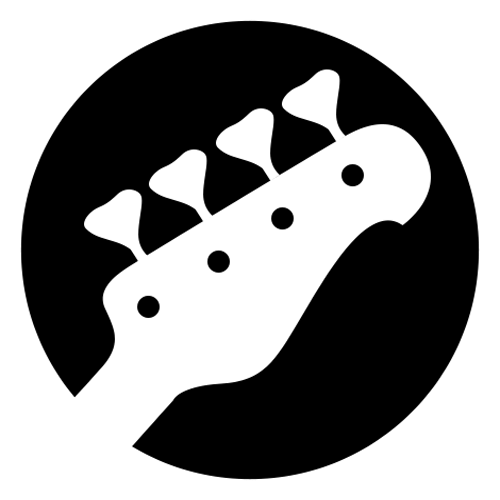
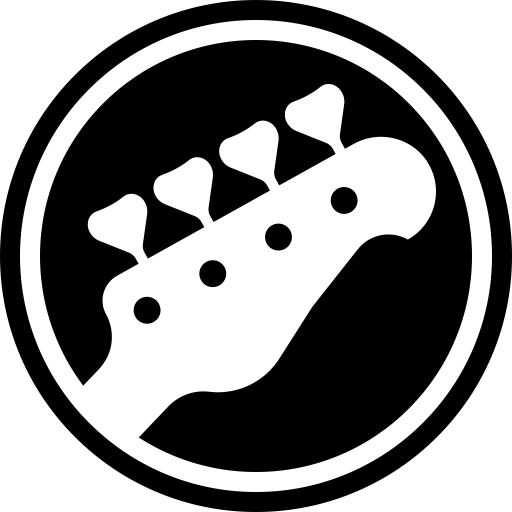
Re-vendor the five glyphs in use from the Instruments frame
The two harmony microphones landed a generation apart from the four glyphs
beside them and read as smaller. They were not smaller — they were framed
differently. `instruments/` had been vendored from the Icons page, where a
glyph is a bare disc filling its 500px box edge to edge; the `Instruments`
frame draws the same instrument as a disc inside its own thin outer ring, with
a margin, at 512. Put in a row, one generation reads a size bigger than the
other.

So `guitar`, `bass`, `drums`, `keys` and `vocals` now come from that frame too,
and the seven glyphs YASS actually renders are one generation, one framing and
one size. The six nobody renders — `bass-pro`, `drums-5-lane`, `drums-pro`,
`guitar-pro`, `harmonies`, `keys-pro` — are left on the older 500px art, and
`design/README.md` says plainly not to reintroduce one of them beside the
seven without pulling its replacement from the same frame.

**The drums art changed by more than framing.** The Icons page draws a pair of
crossed sticks; the `Instruments` frame draws a drum kit, which is busier at
the 18px a song row gives it. Taken as-is: it is upstream's own art direction,
and in the row the glyphs answer "does this have drums" by being lit or dim,
with a fixed five-slot order saying which is which.

Upstream's names are not ours. `guitar-lead` is our `guitar` and `vocals-solo`
is our `vocals`, because `GROUP_ART` keys on the five instrument *families* the
[…]

diff --git a/client/src/design/README.md b/client/src/design/README.md
@@ -81,16 +81,37 @@ predicted:
   count nothing was drawn for. These two are the whole reason the app no longer prints a
   `vocal parts` row or a `vocals` stat.
 
-  **They are 512×512, and everything else here is 500×500.** They came from
-  `GET /v1/files/:key/images` — the image-fill endpoint — because `/v1/images` was rate
-  limiting and would not render. That is normally the wrong door: the note under
-  *Re-vendoring* says to render the component, since a source badge layers two bitmaps
-  and only a render composes them. It is safe here specifically because each of these
-  four vocals rectangles carries exactly one `IMAGE` fill and no effects, so the fill *is*
-  the render — verified by pulling `vocals-solo` the same way and finding the art
-  identical to the vendored `vocals.png`. 512 is the native size; the 500s are scale-1
-  renders of 500px rectangles, i.e. downsampled. Nothing renders differently, since CSS
-  sizes all of them. Re-export at scale 1 if you want the set uniform.
+### Two generations of instrument glyph
+
+`instruments/` holds art from two different places in the Figma file, and the difference
+is visible, not just dimensional.
+
+**The seven in use are 512×512**, from the `Instruments` frame (`10003:17191`) — `guitar`
+(upstream `guitar-lead`), `bass`, `drums`, `keys`, `vocals` (upstream `vocals-solo`) and
+the two harmony variants. Every glyph there is a disc inside its own thin outer ring, with
+a margin around it.
+
+**The six unused ones are 500×500**, from the older Icons page: `bass-pro`,
+`drums-5-lane`, `drums-pro`, `guitar-pro`, `harmonies`, `keys-pro`. That generation is a
+bare disc with no outer ring and no margin, so it reads noticeably *larger* at the same
+CSS size. Mixing the two is what made the first pass at the vocal-count glyphs look
+wrong — the new microphones sat in a ring the four glyphs beside them didn't have.
+**Don't reintroduce one of these six next to the seven.** Pull its replacement from the
+`Instruments` frame instead; they are all there.
+
+The drums art differs between the generations by more than framing: the 500 is a pair of
+crossed sticks, the 512 is a drum kit. The kit is busier at the 18px the song row draws it
+at. That is upstream's own art direction and the row's glyphs answer "does this have
+drums" by being lit or dim, so it was taken as-is rather than held back.
+
+**All seven came from `GET /v1/files/:key/images`** — the image-fill endpoint — because
+`/v1/images` was rate limiting and would not render. That is normally the wrong door: the
+note under *Re-vendoring* says to render the component, since a source badge layers two
+bitmaps and only a render composes them. It is safe for these specifically because every
+rectangle in the `Instruments` frame carries exactly one `IMAGE` fill and no effects, so
+the fill *is* the render — verified by pulling `vocals-solo` that way and finding the art
+identical to the `vocals.png` already vendored. 512 is the native size; the 500s are
+scale-1 renders of 500px rectangles, i.e. downsampled.
 - **CSV `source` → badge** is not these 46 badges at all. It resolves through the
   `vendor/opensource` submodule — 240 sources, 293 id spellings, 212 icons, keyed by the
   ids the CSV actually contains. Against a real 4,168-song library that covers 85% of
@@ -177,11 +198,16 @@ overwrite the file of the same name here. Then check whether upstream added toke
 `client/src/index.css` should expose to Tailwind.
 
 **Artwork** comes from Figma instead, using a personal access token (see
-`GET /v1/files/:key/nodes?ids=276:1197` for the Icons page, then `/v1/images/:key` with
-`format=svg` for the eight vector icons and `format=png&scale=1` for the rest). Render
-the *components* rather than pulling the raw image fills — two source badges layer two
-bitmaps, and only a render composes them. Every asset here was exported at scale 1, which
-is native size for all three sets.
+`GET /v1/files/:key/nodes?ids=276:1197` for the Icons page and `ids=10003:17191` for the
+`Instruments` frame, then `/v1/images/:key` with `format=svg` for the eight vector icons
+and `format=png&scale=1` for the rest). Render the *components* rather than pulling the
+raw image fills — two source badges layer two bitmaps, and only a render composes them.
+The one documented exception is the `Instruments` frame; see *Two generations of
+instrument glyph* above for why it is safe there and what it cost.
+
+**Instrument glyphs come from the `Instruments` frame, not the Icons page.** The Icons
+page still has an older set under the same names, and taking a glyph from it lands art
+that is framed differently from everything beside it.
 
 Not stored with Git LFS, deliberately: 81 files totalling 2.2 MB, largest 42 KB, and they
 change approximately never. LFS earns its keep on large or frequently-rewritten binaries,
